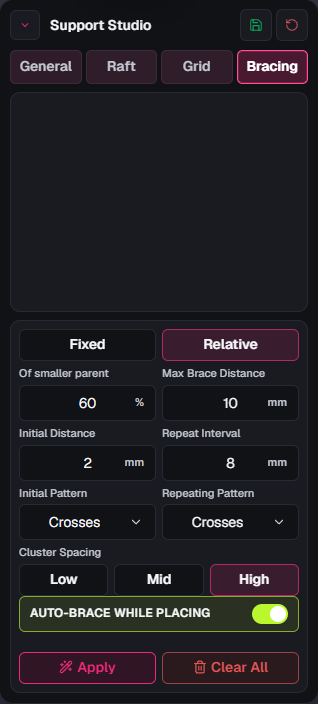
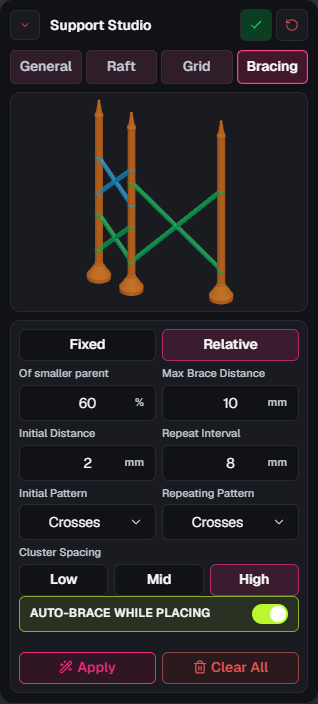
Verify corrected bracing labels in production build

diff --git a/docs/support-studio-bracing-acceptance.md b/docs/support-studio-bracing-acceptance.md
@@ -1,6 +1,6 @@
 # Support Studio Stage 1: bracing acceptance
 
-Status: **implemented; installed-package localization regression found on 2026-10-16 and runtime catalogs corrected; optimized application verification, replacement Windows build, manual checks, and user acceptance pending.** This is a separately authorized tools sequence on the unpublished 0.4.1 integration candidate. [Phase 0.5](upstream-0.1.17-acceptance.md) remains awaiting acceptance. No release or version bump is authorized by this stage.
+Status: **implemented; runtime catalog regression corrected, optimized frontend UI verified, and replacement Windows build passed on 2026-10-16; manual checks and user acceptance pending.** This is a separately authorized tools sequence on the unpublished 0.4.1 integration candidate. [Phase 0.5](upstream-0.1.17-acceptance.md) remains awaiting acceptance. No release or version bump is authorized by this stage.
 
 ## Scope
 
@@ -19,7 +19,7 @@ The actual methods and limitations are recorded below.
 | Apply/Clear | Existing brace patterns and Cluster Spacing retain their behavior. Apply preserves manual braces and supports explicit regeneration for two eligible shafts. Clear All retains its existing behavior: it deletes all braces on the current model, including manual braces, while leaving other models alone. Undo/redo restores a consistent support graph. | Automated checks passed; manual/native review pending |
 | Live placement | The option starts off. When enabled, manually placing an eligible trunk or branch generates braces using current pattern and sizing settings. Existing supports of other models or plates are excluded. Placing with the option off retains existing behavior. | Automated checks passed; manual/native placement pending |
 | History | One undo removes the placed trunk or branch and its newly generated braces; one redo restores both. Existing or manually created braces remain intact during live placement. | Automated checks passed; manual/native undo/redo pending |
-| Integration | TypeScript, focused automated checks, documentation accuracy, and relevant lint/localization checks pass. Record any GUI checks separately from automated checks. | Initial automated checks/build passed; installed localization regression corrected; revised production UI and replacement package checks pending |
+| Integration | TypeScript, focused automated checks, documentation accuracy, and relevant lint/localization checks pass. Record any GUI checks separately from automated checks. | Automated checks passed; runtime catalog regression corrected; production frontend UI and replacement Windows build passed |
 | Regression boundary | Manual brace placement/editing, existing support placement families, plate isolation, and legacy settings remain usable. Later tools are not introduced in this stage. | Broad automated suite passed; manual/native regression review pending |
 
 ## Checks actually performed
@@ -30,12 +30,12 @@ On 2026-10-16:
 - Automated coverage includes relative diameter resolution and invalid-parent fallback; uniform relative geometry and legacy endpoint geometry; settings, preset, and scene serialization; local generation and history; and existing support/VOXL behavior. These checks exercise synthetic data and application contracts, not native pointer placement or physical printing.
 - The focused bracing controls DOM test passed (**1 test**), covering Fixed/Relative state, the default 50% value, live bracing off/on, preservation of fixed settings, and the existing pattern/Apply/Clear controls.
 - TypeScript's no-emit check passed. The clean-directory lint check passed **42 directories with 0 errors and 0 warnings**. The localization literal check passed **59 paths and 163 files**, after test selectors received the documented ignore comments. Documentation accuracy passed **167 documents**.
-- Headless Edge QA exercised the actual application with a synthetic cube: import, Support Studio bracing controls, the Fixed default and live option off, switching to Relative with 50%, entering 60%, turning live bracing on, and explicitly saving settings. Reloading and reimporting the model restored the actual Relative 60% and live-on controls as well as the stored settings. Visual review at **1280 × 800** confirmed all bracing controls remained visible without clipping. There were no uncaught page errors; the development session logged an inherited, unrelated TopBar hydration warning.
[1 lines of base64/hex data omitted]
+- Initial development-server headless Edge QA exercised the actual application with a synthetic cube: import, Support Studio bracing controls, the Fixed default and live option off, switching to Relative with 50%, entering 60%, turning live bracing on, and explicitly saving settings. Reloading and reimporting the model restored the actual Relative 60% and live-on controls as well as the stored settings. Visual review at **1280 × 800** confirmed all bracing controls remained visible without clipping. There were no uncaught page errors; the development session logged an inherited, unrelated TopBar hydration warning. This development run did not establish production catalog resolution; the corrected optimized frontend was checked separately below.
[1 lines of base64/hex data omitted]
 
-### Installed-package localization correction
+### Production localization correction
 
-The installed Bracing panel displayed compact translation IDs instead of the
+The user's running Bracing panel displayed compact translation IDs instead of the
 new Fixed/Relative labels, smaller-parent percentage label, live-placement
 toggle text, and units. Stage 1 had extracted the nine new messages into all
 six `.po` catalogs but omitted the compiled runtime `.js` files required by
@@ -56,14 +56,37 @@ Slovak, and Czech using only their compact production IDs, without source-messag
 fallbacks. TypeScript's no-emit check, focused lint for the new regression,
 the localization literal gate (**59 paths, 163 files**), and documentation
 accuracy (**167 documents**) also passed after this correction.
-These automated checks establish catalog coverage; optimized app UI,
-replacement installer, and native installation checks for this correction remain
-pending and must be recorded separately.
+These automated checks establish catalog coverage. The focused bracing controls
+DOM test also passed again (**1 test**). The correction is code commit
+`d56d2f22` and changes runtime catalogs and regression coverage without changing
+bracing behavior.
+
+The primary review reproduced the raw IDs in the old production static assets,
+then rebuilt the optimized frontend and ran headless Edge against the exact
+`src-tauri/frontend-dist` assets prepared for embedding. Fixed/Relative labels,
+the smaller-parent label, millimetre/percentage units, the live option's off/on
+states, editing 50% to 60%, and the actual saved controls after reload all passed.
+The production panel screenshot was visually reviewed at **1440 × 1100**.
+Separately, automation at **1280 × 800** confirmed Clear All remained visible;
+no new compact production screenshot was visually inspected. There were no
+uncaught page errors.
+This verifies the corrected production frontend, separately from the earlier
+development-server check.
+
+The replacement Windows build completed successfully from clean code fingerprint
+`d56d2f22f`: production frontend TypeScript and static export, the optimized
+Windows x64 executable, and the NSIS installer all passed. The executable's PE
+identity remains `DragonFruit (stickninja)`, version `0.4.1`. The corrected
+installer is **21,975,350 bytes**, SHA-256
[1 lines of base64/hex data omitted]
+This replaces the initial artifact above. Native installation has not been
+performed, user acceptance remains pending, and no new release is authorized.
 
 ## Browser review image
 
-This image shows the actual compact application UI with a synthetic model. It
-records the settings review, not manual support placement or print strength.
+This corrected production panel image shows the actual application UI at
+1440 × 1100 with a synthetic model. It records the settings review, not manual
+support placement or print strength.
 
 ![Stage 1 bracing controls](assets/fork-support-studio/stage-1-bracing.png)
 
